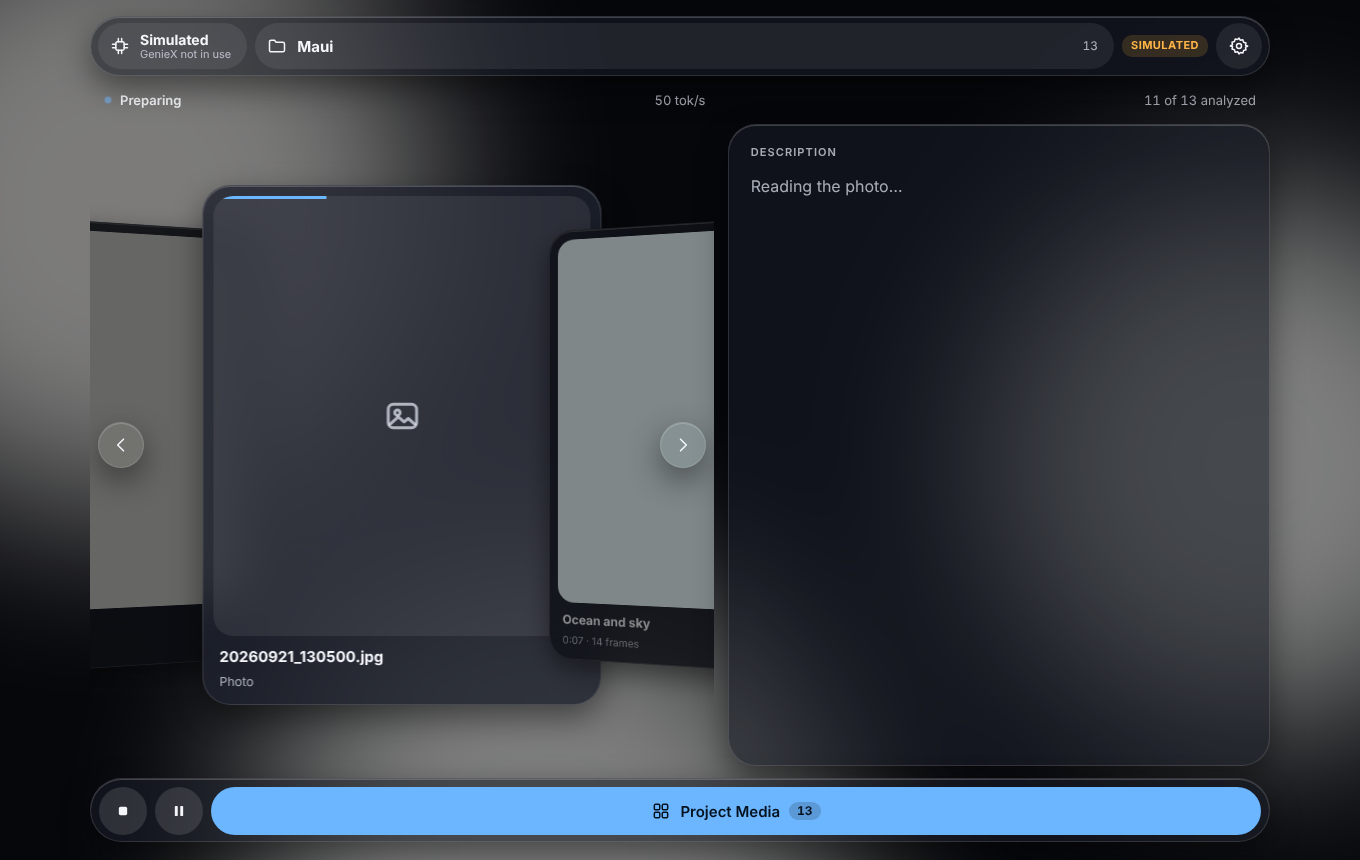
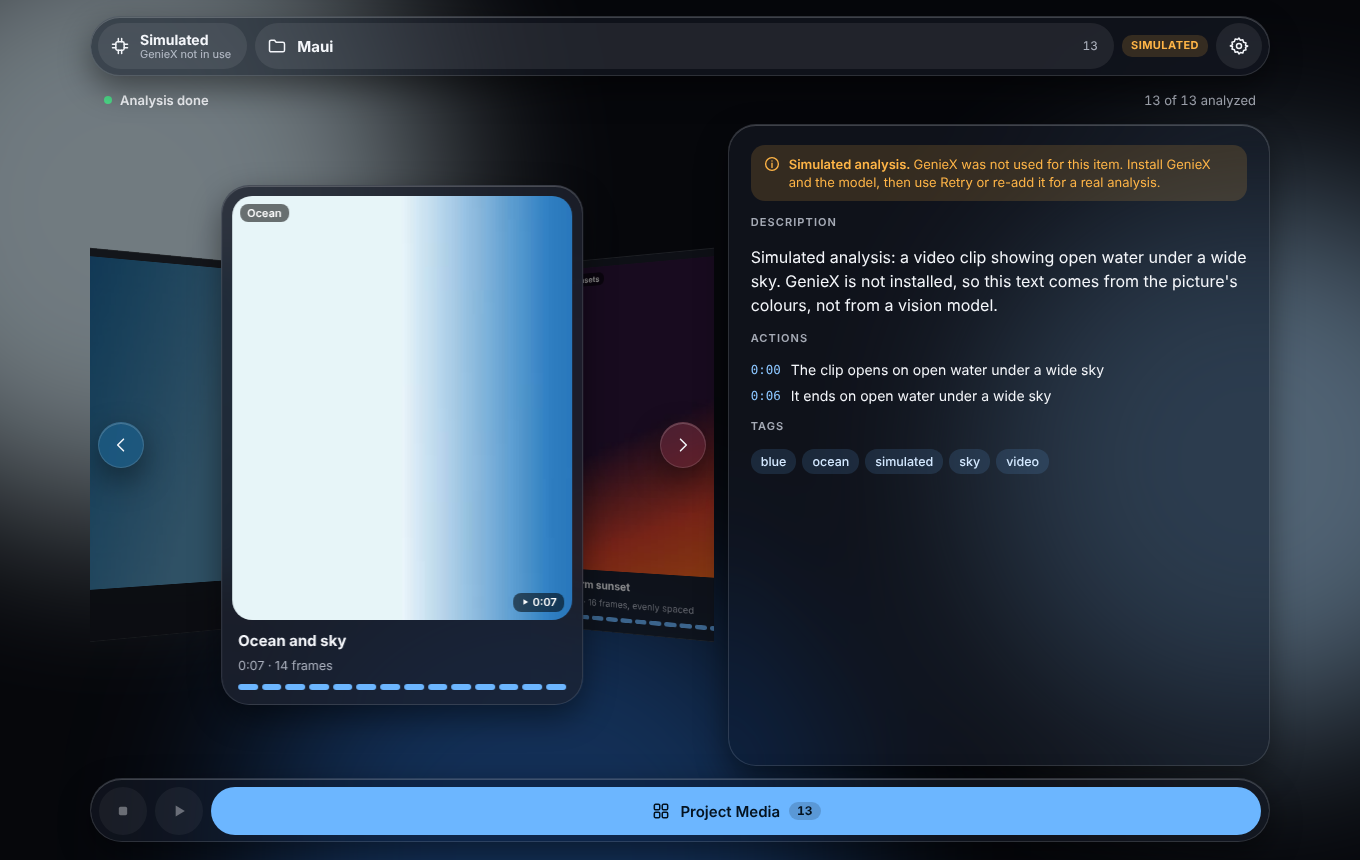
Put the carousel's side cards behind the centre card, as on Android
Smaller, turned so the inner edge recedes, dimmed, with a slight overlap;
every clip shows its frame dots.

Claude-Session: https://claude.ai/code/session_01MuxQnp5B2PcVLLu3wJ5hxx

diff --git a/ui/styles.css b/ui/styles.css
@@ -93,12 +93,16 @@ button.pill:hover, .ib:hover, .mini:hover, .txtbtn:hover { background: var(--chi
 
 .stage { flex: 1; min-height: 0; display: grid; grid-template-columns: minmax(0, 1fr); grid-template-rows: minmax(0, 1.1fr) minmax(0, 1fr); gap: 14px; }
 @media (min-width: 980px) and (min-aspect-ratio: 5/4) { .stage { grid-template-columns: minmax(0, 1.15fr) minmax(0, 1fr); grid-template-rows: minmax(0, 1fr); } }
-.carousel { position: relative; min-height: 0; perspective: 1400px; overflow: hidden; border-radius: 28px; outline: none; }
-.card { position: absolute; left: 50%; top: 50%; width: min(64%, 420px); height: min(94%, 520px); border-radius: 28px; padding: 10px 10px 14px; display: flex; flex-direction: column; gap: 6px; transition: transform 420ms cubic-bezier(0.2, 0.8, 0.2, 1), filter 420ms ease, opacity 420ms ease; transform: translate(-50%, -50%); will-change: transform; text-align: left; }
-.card.prev { transform: translate(-128%, -50%) rotateY(24deg) scale(0.86); filter: brightness(var(--dim-prev)); }
-.card.next { transform: translate(28%, -50%) rotateY(-24deg) scale(0.86); filter: brightness(var(--dim-next)); }
-.card.far-prev { transform: translate(-200%, -50%) rotateY(30deg) scale(0.7); opacity: 0; pointer-events: none; }
-.card.far-next { transform: translate(100%, -50%) rotateY(-30deg) scale(0.7); opacity: 0; pointer-events: none; }
+.carousel { position: relative; min-height: 0; perspective: 1100px; overflow: hidden; border-radius: 28px; outline: none; }
+.card { position: absolute; left: 50%; top: 50%; width: min(58%, 420px); height: min(94%, 520px); border-radius: 28px; padding: 10px 10px 14px; display: flex; flex-direction: column; gap: 6px; transition: transform 420ms cubic-bezier(0.2, 0.8, 0.2, 1), filter 420ms ease, opacity 420ms ease; transform: translate(-50%, -50%); will-change: transform; text-align: left; }
+/* The cards on either side sit behind the centre card: smaller, turned so their inner edge
+   recedes, dimmed, and tucked just under its edge. */
+.card { z-index: 2; }
+.card.prev, .card.next { z-index: 1; box-shadow: none; }
+.card.prev { transform: translate(-136%, -50%) translateZ(-140px) rotateY(32deg) scale(0.84); filter: brightness(var(--dim-prev)); }
+.card.next { transform: translate(36%, -50%) translateZ(-140px) rotateY(-32deg) scale(0.84); filter: brightness(var(--dim-next)); }
+.card.far-prev { z-index: 0; transform: translate(-215%, -50%) translateZ(-300px) rotateY(40deg) scale(0.7); opacity: 0; pointer-events: none; }
+.card.far-next { z-index: 0; transform: translate(115%, -50%) translateZ(-300px) rotateY(-40deg) scale(0.7); opacity: 0; pointer-events: none; }
 .card .shot { position: relative; flex: 1; min-height: 0; border-radius: 20px; overflow: hidden; background: var(--chip); display: grid; place-items: center; color: var(--sub); }
 .card .shot img { width: 100%; height: 100%; object-fit: cover; display: block; }
 .card .shot .progress { position: absolute; left: 0; top: 0; height: 3px; background: var(--accent); transition: width 240ms ease; }

diff --git a/ui/main.js b/ui/main.js
@@ -215,9 +215,13 @@ function renderCarousel(stage, rows, p) {
     const d = i - at;
     const cls = d === 0 ? '' : d === -1 ? '.prev' : d === 1 ? '.next' : d < 0 ? '.far-prev' : '.far-next';
     const isCurrent = p.currentItemId === row.id;
+    // Every clip shows its frame dots; they light up as the frames are read, and stay lit once analyzed.
     let frames = null;
-    if (row.kind === 'Video' && isCurrent && p.framesTotal) {
-      frames = h('div.frames', Array.from({ length: p.framesTotal }, (_, k) => h(`i${k < p.framesReady || p.phase === 'Describing' ? '.on' : ''}`)));
+    if (row.kind === 'Video') {
+      const live = isCurrent && running();
+      const total = live && p.framesTotal ? p.framesTotal : Math.min(Math.max(1, Math.ceil((row.durationMs || 0) / 500)), S.boot.settings.maxFramesPerClip);
+      const lit = live ? (p.phase === 'Describing' ? total : p.framesReady) : (row.hasAnalysis ? total : 0);
+      frames = h('div.frames', Array.from({ length: total }, (_, k) => h(`i${k < lit ? '.on' : ''}`)));
     }
     const badge = row.status === 'Failed' ? h('span.bdg.st.warn', 'Failed') : row.status === 'Missing' ? h('span.bdg.st.warn', 'Missing') : row.status === 'Pending' ? h('span.bdg.st', 'Waiting') : null;
     cards.push(h(`div.card.glass.strong${cls}`, {
